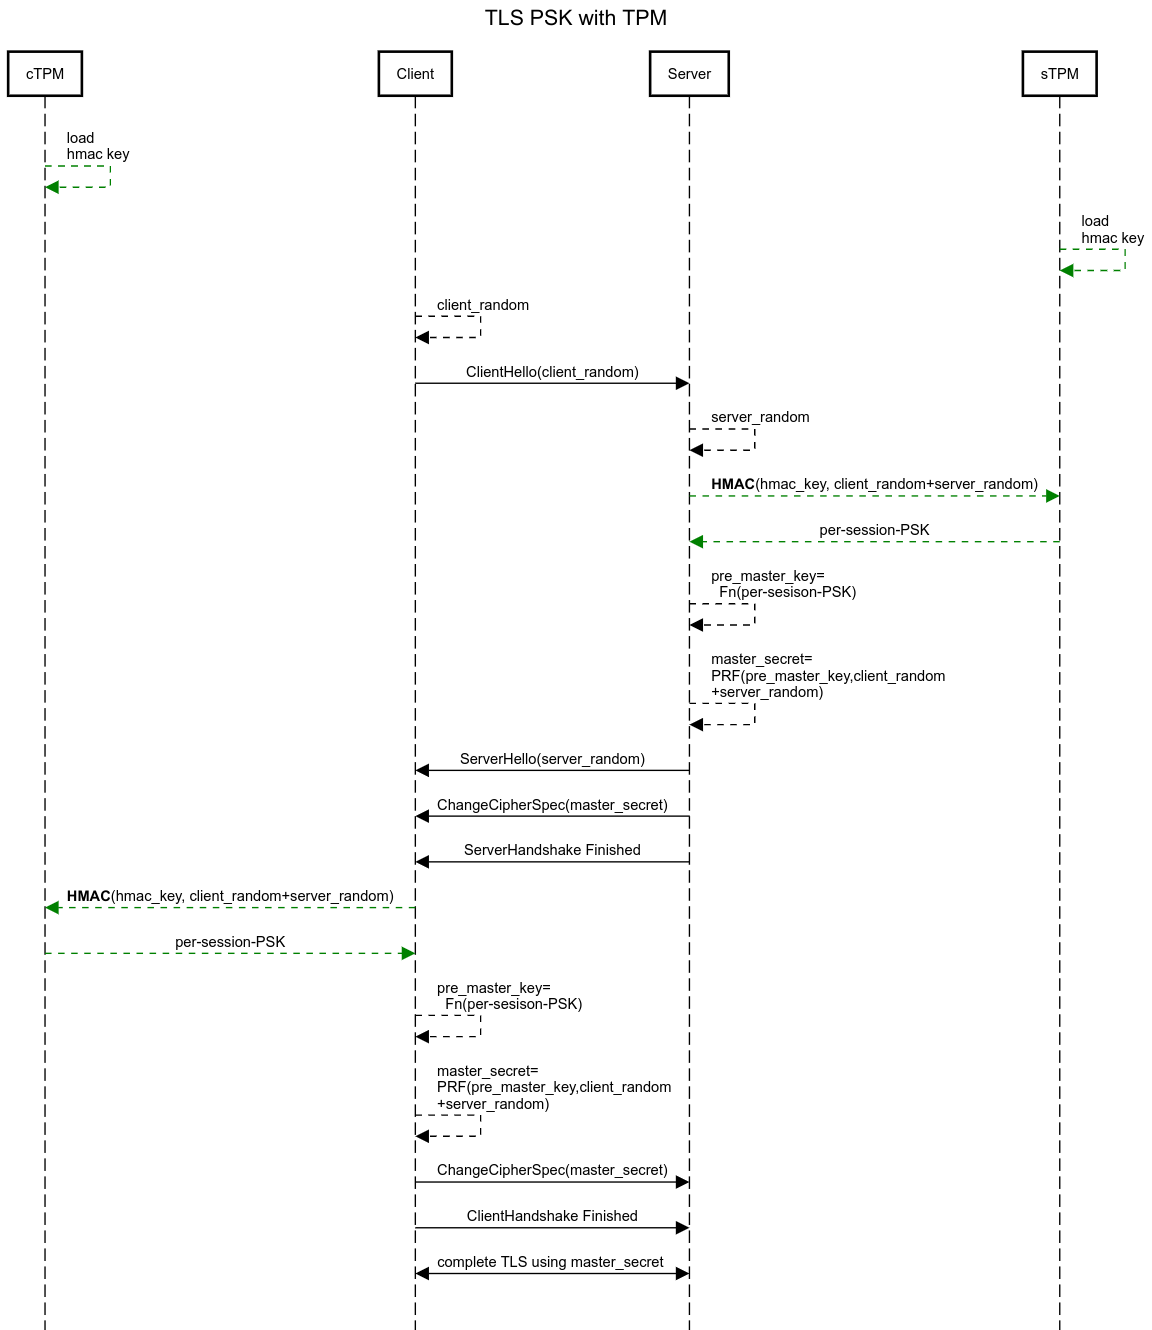
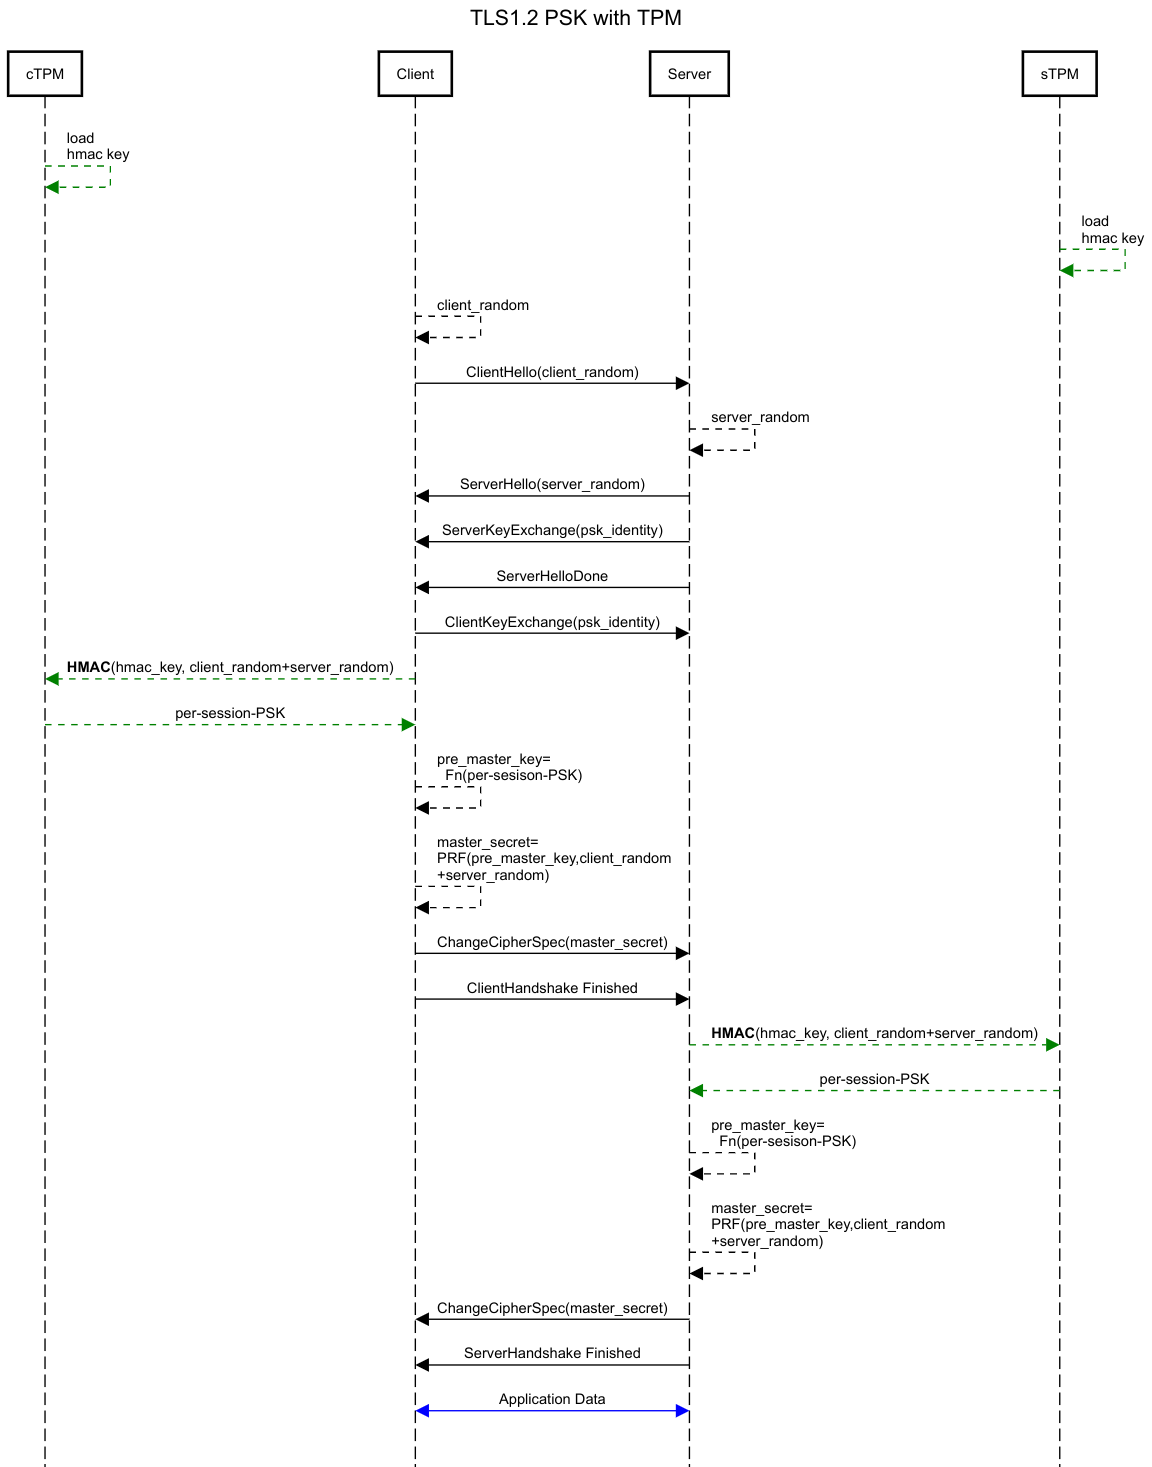
update for tls1.2

diff --git a/README.md b/README.md
@@ -1,8 +1,8 @@
-## Per-Session TLS-PSK using Trusted Platform Module (TPM)
+## Per-Session TLS1.2-PSK using Trusted Platform Module (TPM)
 
-This repo demonstrates a variation of [TLS-PSK](https://en.wikipedia.org/wiki/TLS-PSK) where the actual PSK is embedded inside a `Trusted Platform Module (TPM)`
+This repo demonstrates a variation of [TLS-PSK](https://en.wikipedia.org/wiki/TLS-PSK) for `TLS1.2` where the actual PSK is embedded inside a `Trusted Platform Module (TPM)`
 
-`TLS-PSK` relies on a shared secret between the participants where the secret provides the basis to drive keys used to establish the TLS connection.
+[TLS-PSK](https://datatracker.ietf.org/doc/html/rfc4279) relies on a shared secret between the participants where the secret provides the basis to drive keys used to establish the TLS connection.
 
 Normally, the PSK is a long term secret and is eventually visible in user-space (i.,e the application) during connection setup.  This poses a risk because, you know, it can get misplaced at a bar or stolen.
 
@@ -38,8 +38,11 @@ The items in green below describes the `per_session PSK` generation and the chan
 
 ![images/sequence.png](images/sequence.png)
 
+![images/psk_key_exchange.png](images/psk_key_exchange.png)
+
 >>> **WARNING** this has not been reviewed or used in practice;  this is just a random idea and isn't 'out of the box' compatible with programming languages implementing TLS-PSK (because you have to derive a new key using client and server random); caveat emptor
 
+**Important**: this scheme does not work for `TLS1.3` because that revision requires [TLS1.3 PSK Binder](https://datatracker.ietf.org/doc/html/rfc8446#section-4.2.11.2)' in the protocol 
 
 For reference, see
 
@@ -48,14 +51,21 @@ For reference, see
 - [TLS 1.3 Performance Part 3 – Pre-Shared Key (PSK)](https://www.wolfssl.com/tls-1-3-performance-part-3-pre-shared-key-psk/)
 - [EMV support for TLS-PSK](https://datatracker.ietf.org/doc/html/draft-urien-tls-psk-emv-02)
 
+- [RFC 9258: Importing External Pre-Shared Keys (PSKs) for TLS 1.3](https://www.rfc-editor.org/rfc/rfc9258.html)
+- [Overview	of	TLS v1.3](https://owasp.org/www-chapter-london/assets/slides/OWASPLondon20180125_TLSv1.3_Andy_Brodie.pdf)
+
 ---
 
 One additional advantage of using PSK over RSA/EC PKI-based TLS is that its allegedly "quantum safe" (see [rfc8773 3. Motivation and Design Rationale](https://datatracker.ietf.org/doc/rfc8773/)), [issue#6379](https://github.com/golang/go/issues/6379#issuecomment-2166924693)
 
 
-Other References:
+### TLS1.3 PSK
 
-for [TLS 1.3](https://datatracker.ietf.org/doc/html/rfc8446): 
+As mentioned, this repo works just with TLS1.2 since [TLS 1.3](https://datatracker.ietf.org/doc/html/rfc8446) requires the clientHello to include a binder which itself is a hash of the final PSK:
+
+Given that the scheme above requires both the client and server randoms to generate the per-session PSK, the binder cannot get setup so this whole repo does not apply to TLS 1.3
+
+Other references: 
 
 * [TLS1.3 PSK](https://wiki.openssl.org/index.php/TLS1.3#PSKs)
 * [Guidance for External Pre-Shared Key (PSK) Usage in TLS](https://datatracker.ietf.org/doc/html/rfc9257)
